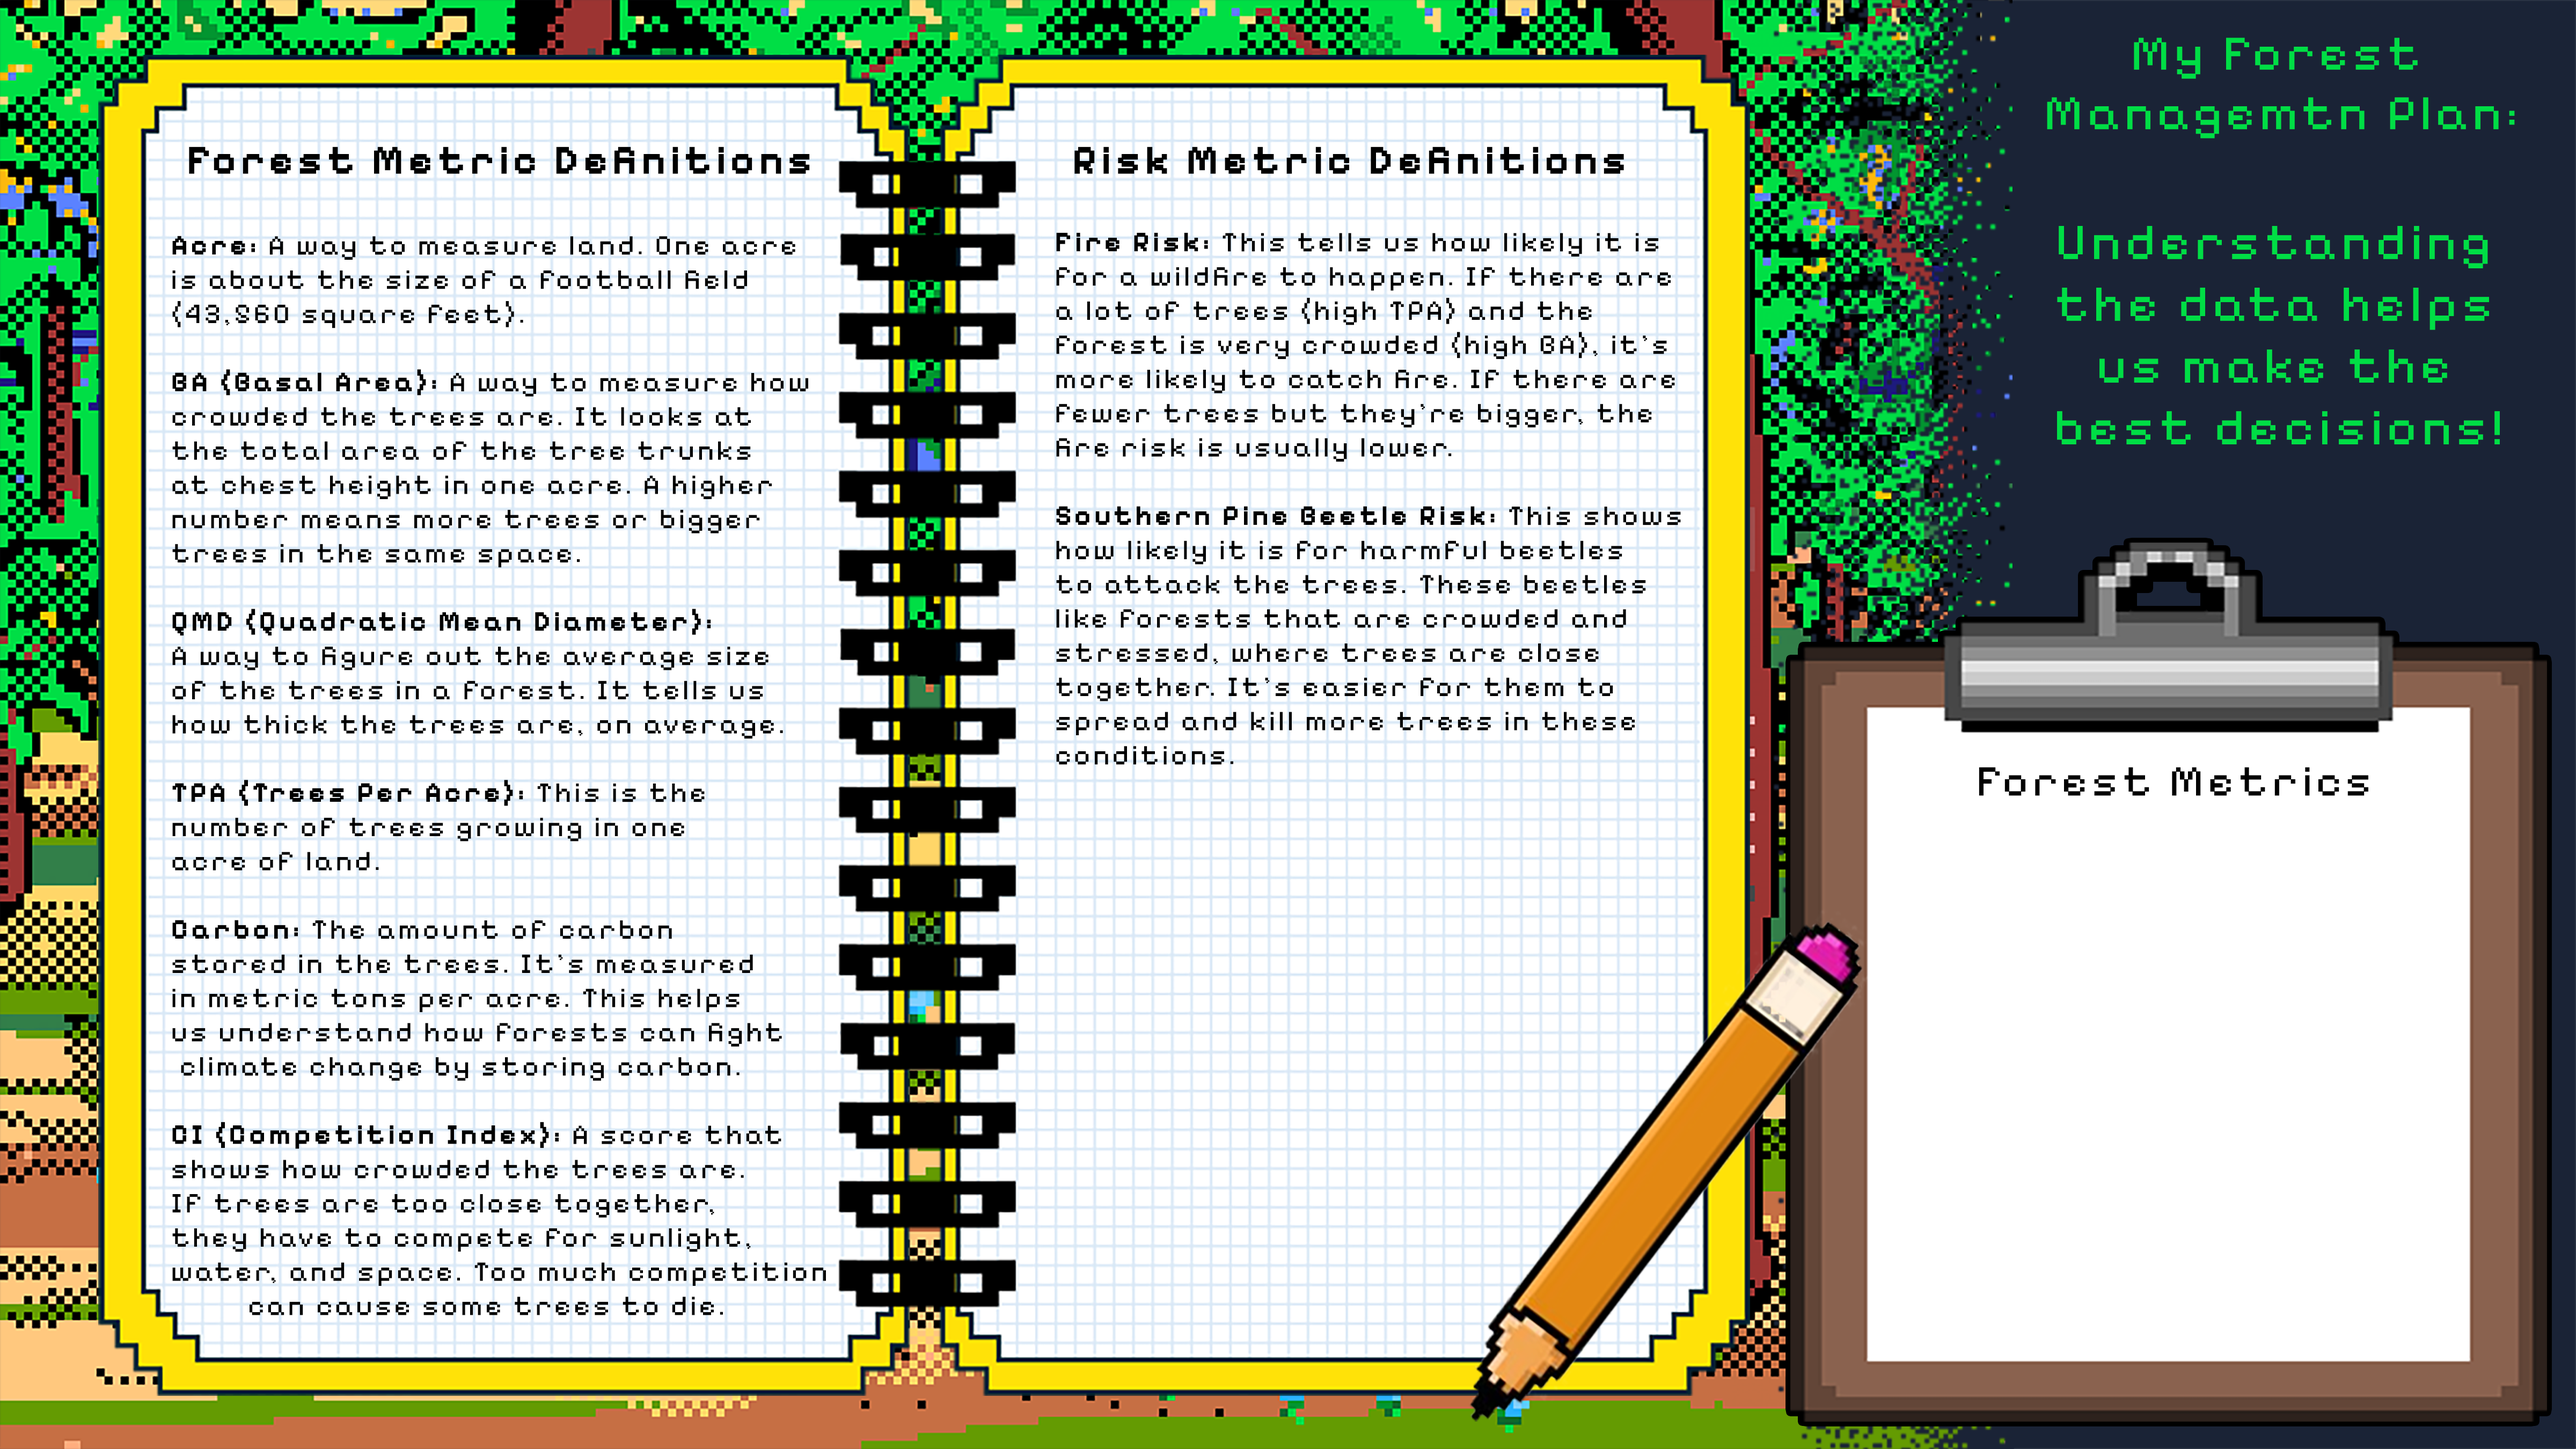
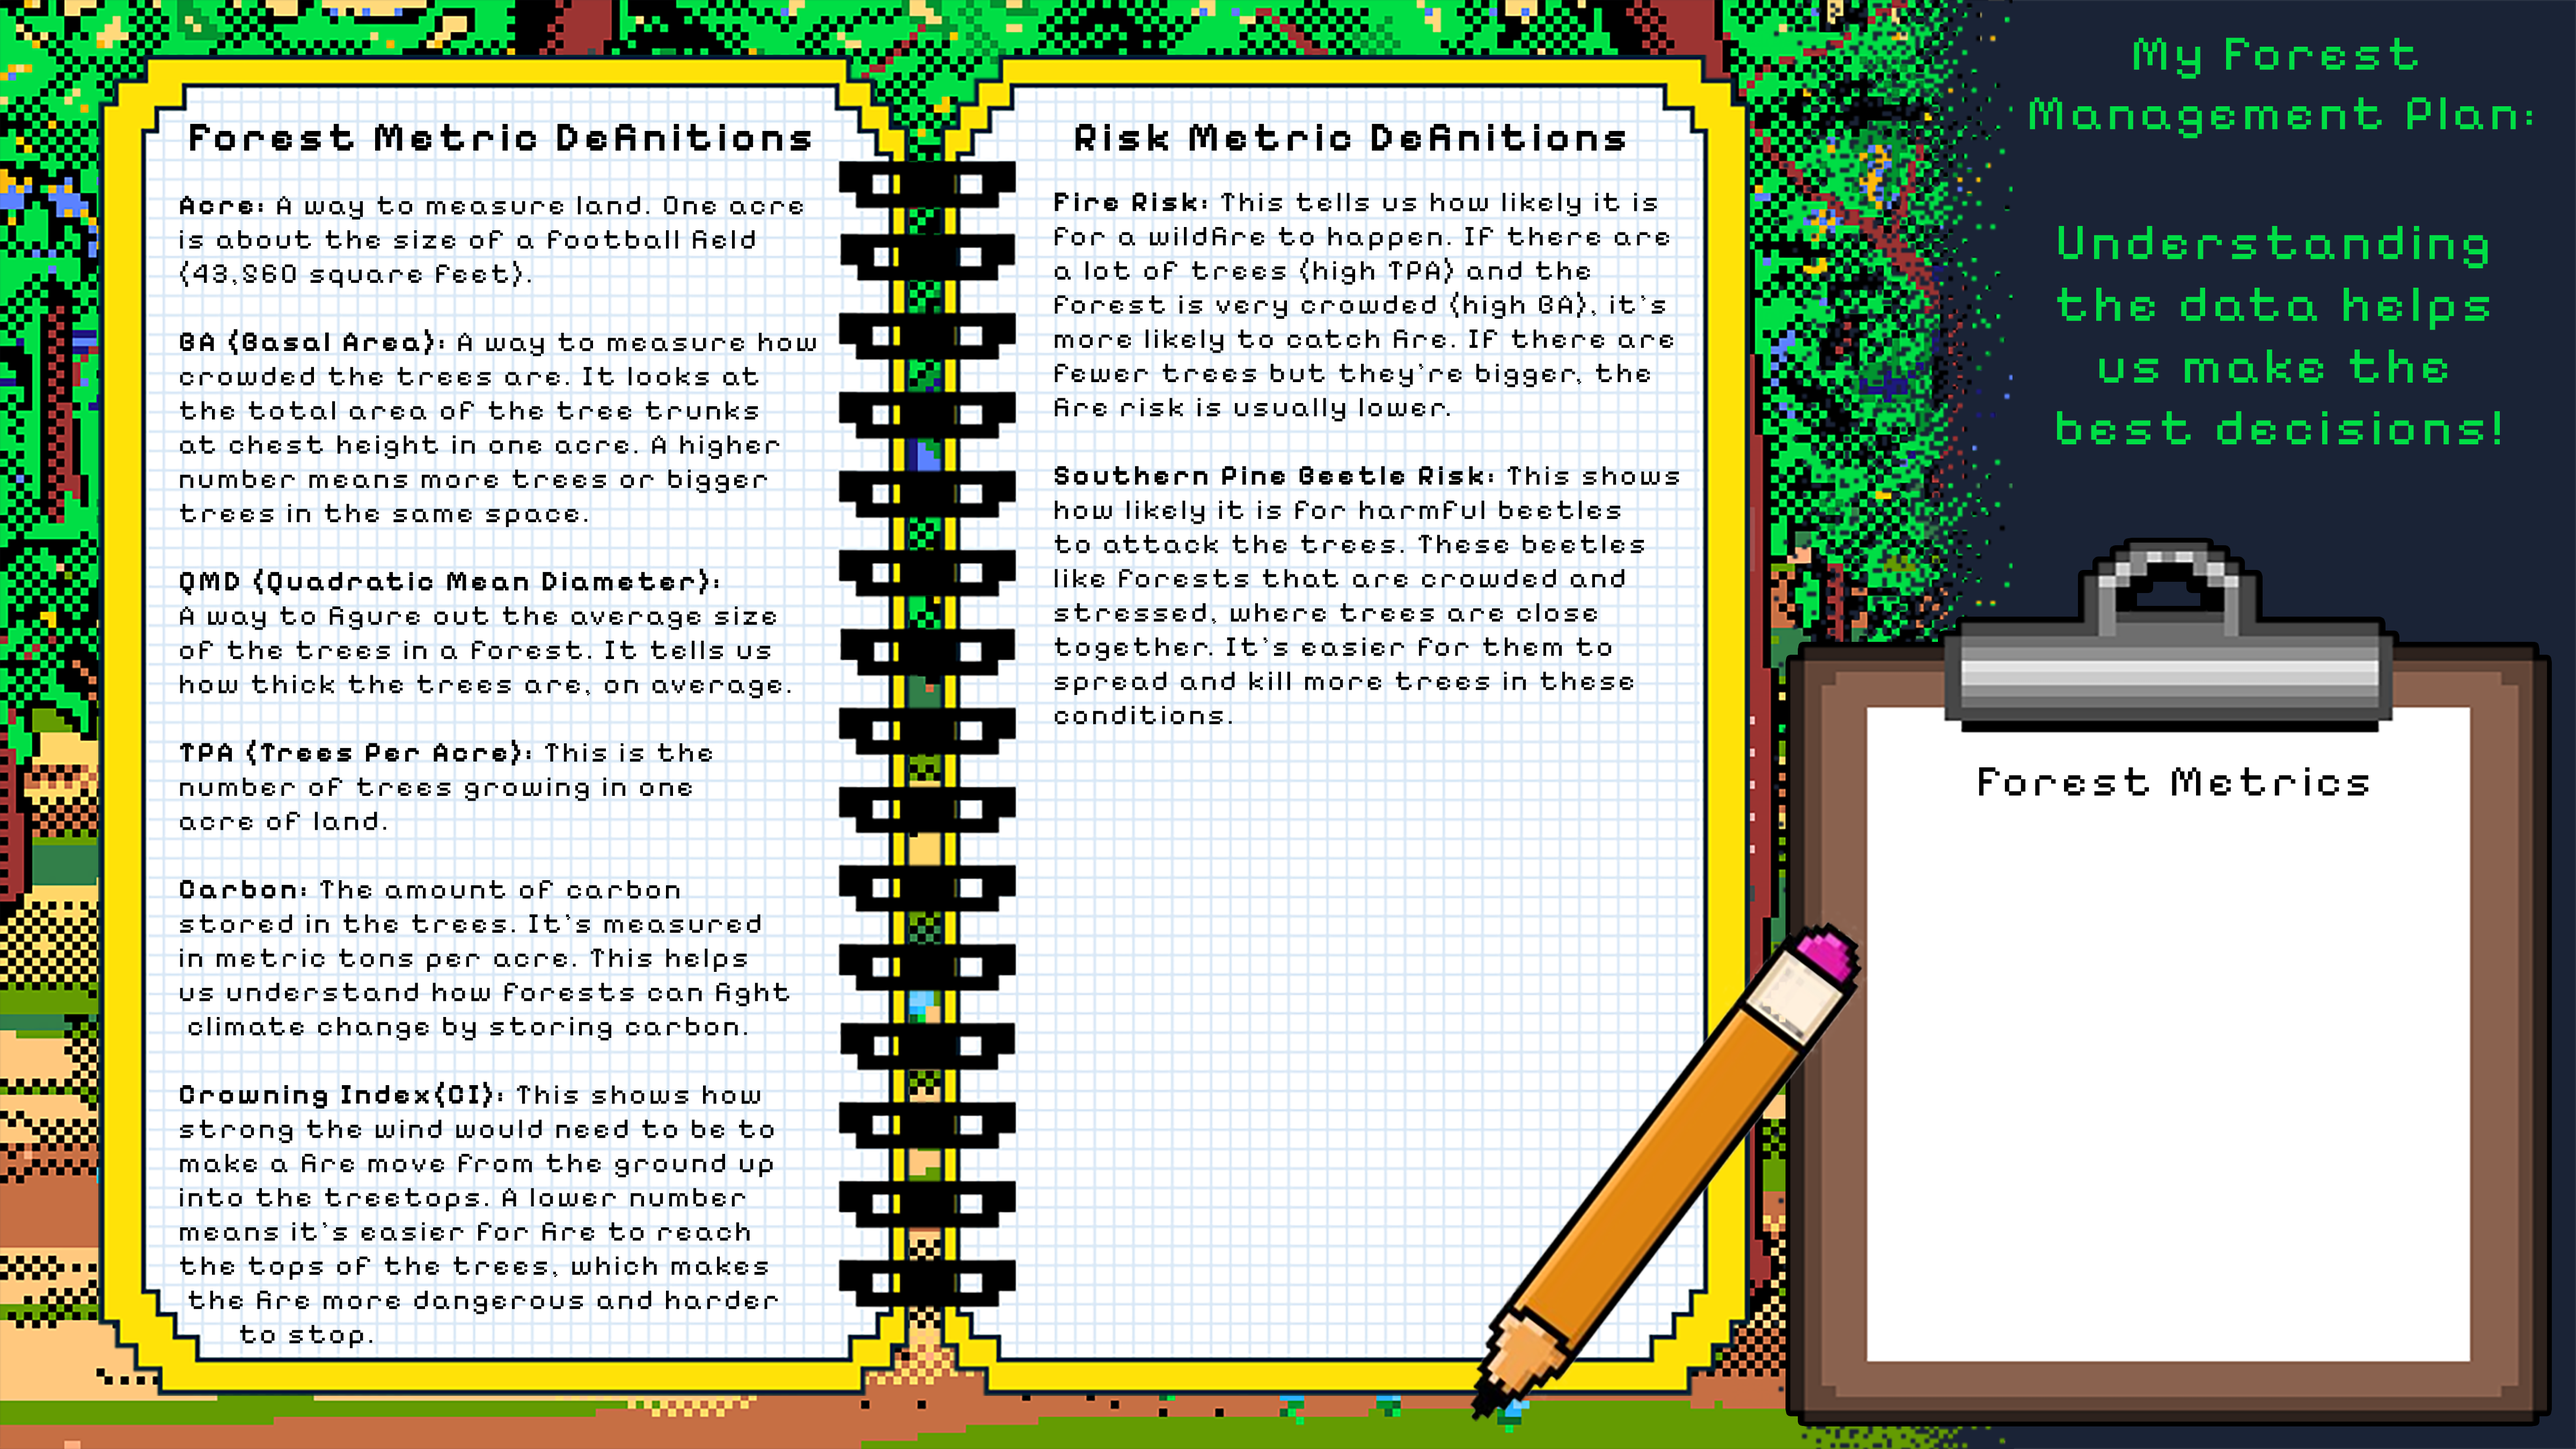
Fixing SP and words
Change from competition to crowning index and fix spelling on management

Changed region(s): [[0.0625, 0.0933, 0.3125, 0.9333], [0.4062, 0.0622, 0.6562, 0.5289], [0.7812, 0.0622, 0.9688, 0.0933]]

diff --git a/src/gui.py b/src/gui.py
@@ -346,6 +346,49 @@ def main():
         bg_label.image = bg_photo  # Prevent garbage collection
         bg_label.place(relx=0, rely=0, relwidth=1, relheight=1)
 
+        # --- Metrics Frame (copied from main game screen) ---
+        metrics_frame = tk.Frame(snake_frame, bg="#FFFFFF", bd=0)
+        metrics_frame.place(relx=0.845, rely=0.73, anchor="center")
+        game_status = tk.StringVar()
+        status_dict = game.get_status_dict()
+        game_status.set(
+            f"Year: {status_dict['year']}\n"
+            f"\nBasal Area (BA): {status_dict['BA']:.1f} sqft/acre\n"
+            f"\nTrees Per Acre (TPA): {status_dict['TPA']}\n"
+            f"\nQuadratic Mean Diameter (QMD): {status_dict['QMD']:.1f} inches\n"
+            f"\nCarbon per Acre: {status_dict['carbon']:.1f} Metric Tons/acre\n"
+            f"\nCrowning Index: {status_dict['CI']:.1f}"
+        )
+        game_status_message = tk.Message(
+            metrics_frame,
+            textvariable=game_status,
+            width=450,
+            justify="center",
+            bg="#FFFFFF",
+            fg=FG_COLOR,
+            font=("Courier",13, "bold")
+        )
+        game_status_message.pack()
+        fire_risk_label = tk.Label(metrics_frame, wraplength=400, justify="left", padx=10, pady=0, bg="#FFFFFF", font=FONT)
+        fire_risk_label.pack()
+        spb_risk_label = tk.Label(metrics_frame, wraplength=400, justify="left", padx=10, pady=0, bg="#FFFFFF", font=FONT)
+        spb_risk_label.pack()
+        fire_risk_label.config(
+            text=f"\n\n\nFire Risk: {status_dict['fire_risk']}",
+            fg=get_risk_color(status_dict['fire_risk'])
+        )
+        spb_risk_label.config(
+            text=f"Southern Pine Beetle Risk: {status_dict['SPB_risk']}",
+            fg=get_risk_color(status_dict['SPB_risk'])
+        )
+        narration = tk.StringVar()
+        narration.set("What will you do next?")
+        narration_label = tk.Label(
+            metrics_frame, textvariable=narration, wraplength=400, justify="left",
+            padx=10, pady=5, bg="#FFFFFF", fg=FG_COLOR, font=FONT
+        )
+        narration_label.pack()
+
         # --- Text Frame ---
         text_frame = tk.Frame(snake_frame, bg="#1b2336", bd=0)
         text_frame.place(relx=0.88, rely=0.2, anchor="center")  # Adjust relx/rely as needed
@@ -439,7 +482,7 @@ def main():
                 f"\nTrees Per Acre (TPA): {status_dict['TPA']}\n"
                 f"\nQuadratic Mean Diameter (QMD): {status_dict['QMD']:.1f} inches\n"
                 f"\nCarbon per Acre: {status_dict['carbon']:.1f} Metric Tons/acre\n"
-                f"\nCompetition Index: {status_dict['CI']:.1f}"
+                f"\nCrowning Index: {status_dict['CI']:.1f}"
             )
             fire_risk_label.config(
                 text=f"\n\n\nFire Risk: {status_dict['fire_risk']}",
@@ -526,7 +569,7 @@ def main():
             f"\nTrees Per Acre (TPA): {status_dict['TPA']}\n"
             f"\nQuadratic Mean Diameter (QMD): {status_dict['QMD']:.1f} inches\n"
             f"\nCarbon per Acre: {status_dict['carbon']:.1f} Metric Tons/acre\n"
-            f"\nCompetition Index: {status_dict['CI']:.1f}"
+            f"\nCrowning Index: {status_dict['CI']:.1f}"
         )
         game_status_message = tk.Message(
             metrics_frame,
